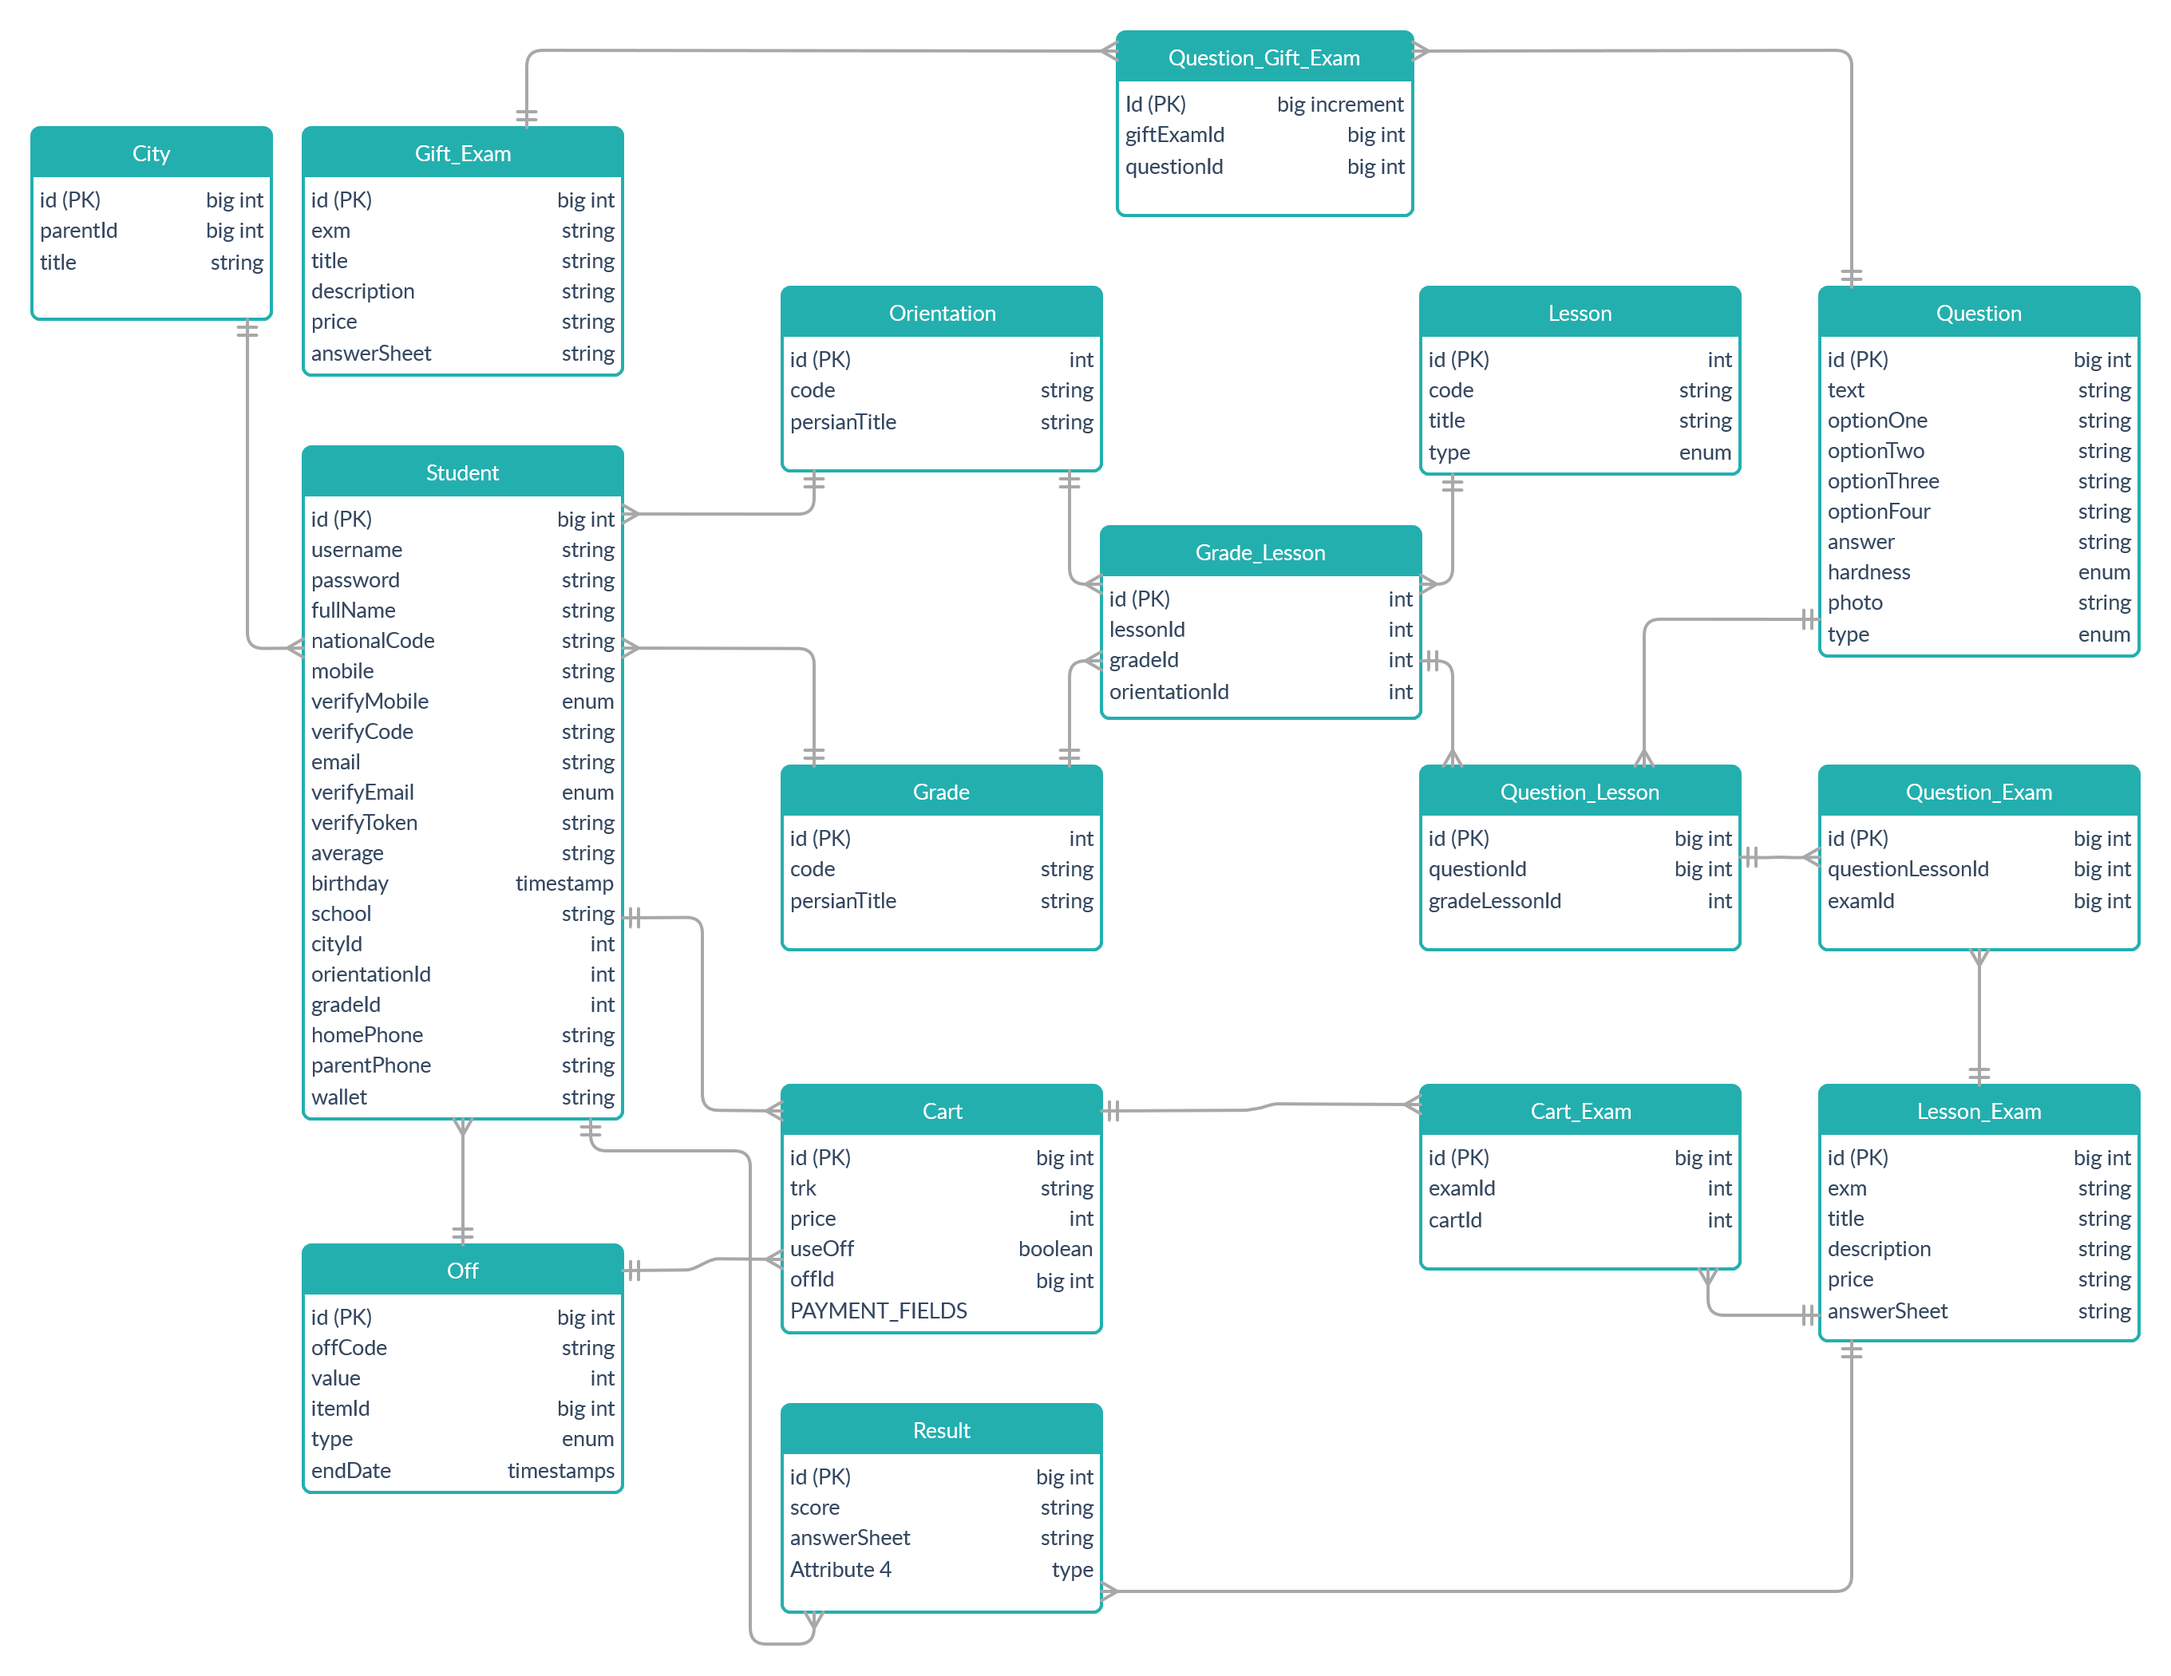
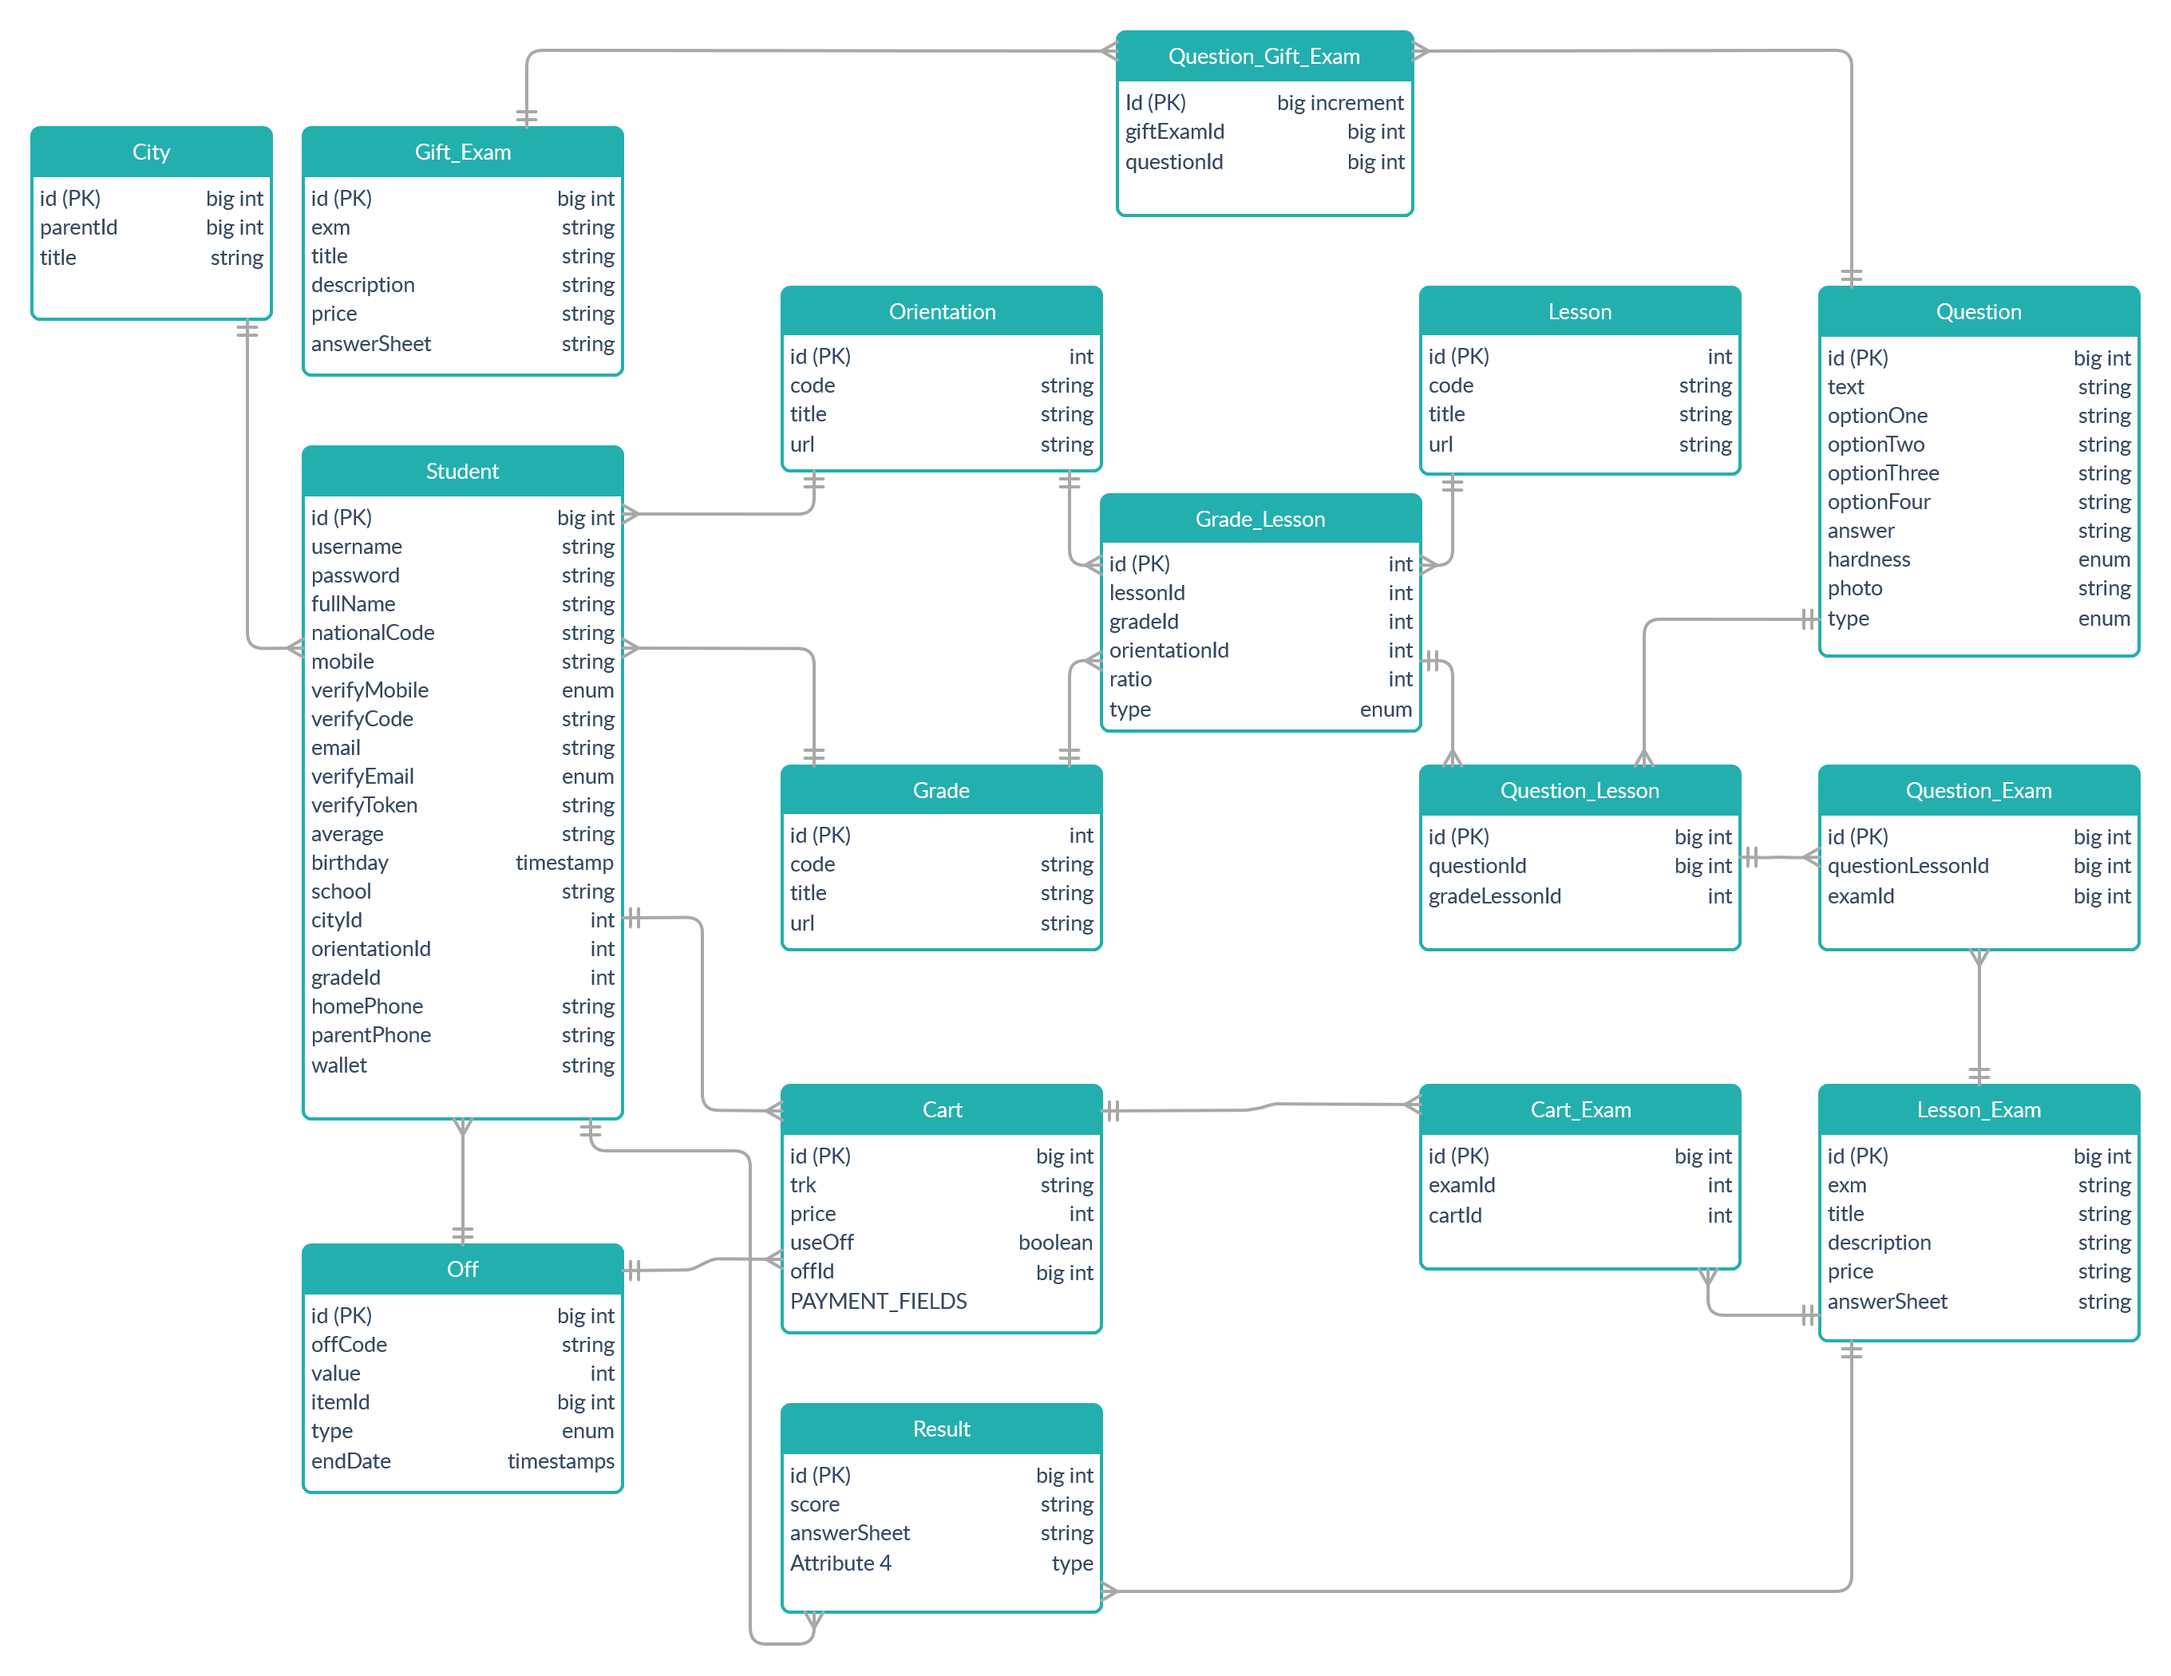
update document

diff --git a/database/seeds/LessonTableSeeder.php b/database/seeds/LessonTableSeeder.php
@@ -19,7 +19,7 @@ class LessonTableSeeder extends Seeder
 
 			'code'       => '01',
 			'title'      => 'ادبیات',
-			'query'      => 'literature',
+			'url'      => 'literature',
 			'created_at' => Carbon::now(),
 			'updated_at' => Carbon::now(),
 
@@ -29,7 +29,7 @@ class LessonTableSeeder extends Seeder
 
 			'code'       => '02',
 			'title'      => 'عربی',
-			'query'      => 'arabic',
+			'url'      => 'arabic',
 			'created_at' => Carbon::now(),
 			'updated_at' => Carbon::now(),
 
@@ -39,7 +39,7 @@ class LessonTableSeeder extends Seeder
 
 			'code'       => '03',
 			'title'      => 'دین و زندگی',
-			'query'      => 'religion-and-life',
+			'url'      => 'religion-and-life',
 			'created_at' => Carbon::now(),
 			'updated_at' => Carbon::now(),
 
@@ -49,7 +49,7 @@ class LessonTableSeeder extends Seeder
 
 			'code'       => '04',
 			'title'      => 'زبان انگلیسی',
-			'query'      => 'english',
+			'url'      => 'english',
 			'created_at' => Carbon::now(),
 			'updated_at' => Carbon::now(),
 
@@ -61,7 +61,7 @@ class LessonTableSeeder extends Seeder
 
 			'code'       => '11',
 			'title'      => 'ریاضی',
-			'query'      => 'math',
+			'url'      => 'math',
 			'created_at' => Carbon::now(),
 			'updated_at' => Carbon::now(),
 
@@ -71,7 +71,7 @@ class LessonTableSeeder extends Seeder
 
 			'code'       => '12',
 			'title'      => 'هندسه',
-			'query'      => 'geometry',
+			'url'      => 'geometry',
 			'created_at' => Carbon::now(),
 			'updated_at' => Carbon::now(),
 
@@ -81,7 +81,7 @@ class LessonTableSeeder extends Seeder
 
 			'code'       => '13',
 			'title'      => 'آمار',
-			'query'      => 'statistics',
+			'url'      => 'statistics',
 			'created_at' => Carbon::now(),
 			'updated_at' => Carbon::now(),
 
@@ -91,7 +91,7 @@ class LessonTableSeeder extends Seeder
 
 			'code'       => '14',
 			'title'      => 'ریاضیات گسسته',
-			'query'      => 'discrete-mathematics',
+			'url'      => 'discrete-mathematics',
 			'created_at' => Carbon::now(),
 			'updated_at' => Carbon::now(),
 
@@ -103,7 +103,7 @@ class LessonTableSeeder extends Seeder
 
 			'code'       => '22',
 			'title'      => 'فیزیک',
-			'query'      => 'physics',
+			'url'      => 'physics',
 			'created_at' => Carbon::now(),
 			'updated_at' => Carbon::now(),
 
@@ -115,7 +115,7 @@ class LessonTableSeeder extends Seeder
 
 			'code'       => '33',
 			'title'      => 'شیمی',
-			'query'      => 'chemistry',
+			'url'      => 'chemistry',
 			'created_at' => Carbon::now(),
 			'updated_at' => Carbon::now(),
 

diff --git a/app/Http/Middleware/Authenticate.php b/app/Http/Middleware/Authenticate.php
@@ -15,7 +15,7 @@ class Authenticate extends Middleware
     protected function redirectTo($request)
     {
         if (! $request->expectsJson()) {
-            return action('Student\\Auth\\LoginController@show');
+            return route('student_login_show');
         }
     }
 }

diff --git a/database/migrations/2019_08_10_131405_create_lesson_table.php b/database/migrations/2019_08_10_131405_create_lesson_table.php
@@ -19,7 +19,7 @@ class CreateLessonTable extends Migration
 			$table->bigIncrements('id');
 			$table->string('code');
 			$table->string('title');
-			$table->string('query');
+			$table->string('url');
 			$table->timestamps();
 			$table->softDeletes();
 		});
